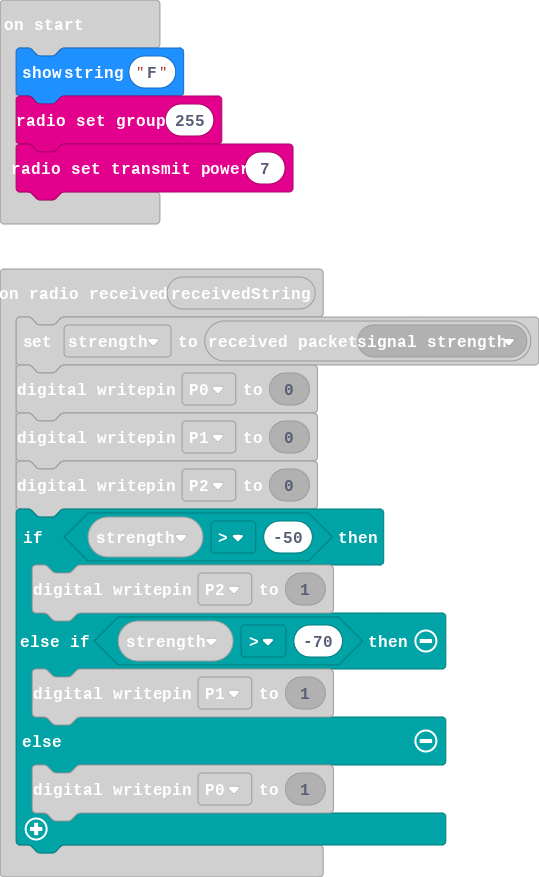
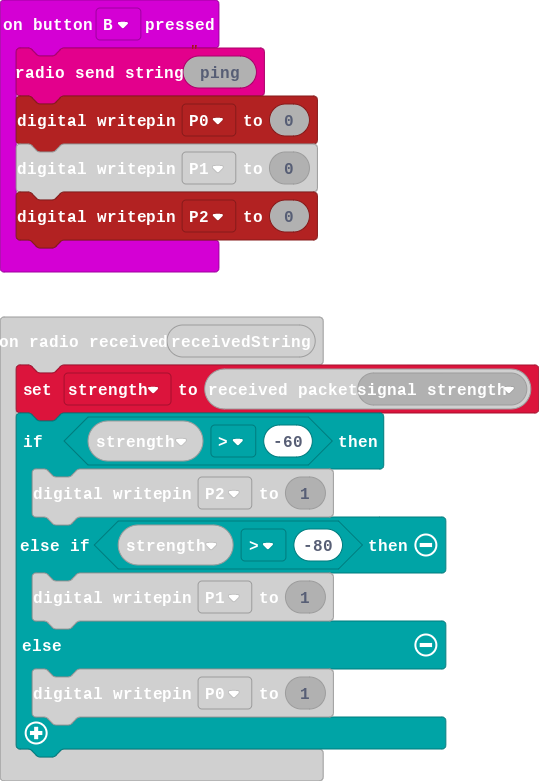
Update main.blocks, main.ts

diff --git a/main.ts b/main.ts
@@ -1,18 +1,18 @@
 radio.onReceivedString(function (receivedString) {
     strength = radio.receivedPacket(RadioPacketProperty.SignalStrength)
-    pins.digitalWritePin(DigitalPin.P0, 0)
-    pins.digitalWritePin(DigitalPin.P1, 0)
-    pins.digitalWritePin(DigitalPin.P2, 0)
-    if (strength > -50) {
+    if (strength > -60) {
         pins.digitalWritePin(DigitalPin.P2, 1)
-    } else if (strength > -70) {
+    } else if (strength > -80) {
         pins.digitalWritePin(DigitalPin.P1, 1)
     } else {
         pins.digitalWritePin(DigitalPin.P0, 1)
     }
 })
-input.onButtonPressed(Button.A, function () {
+input.onButtonPressed(Button.B, function () {
     radio.sendString("ping")
+    pins.digitalWritePin(DigitalPin.P0, 0)
+    pins.digitalWritePin(DigitalPin.P1, 0)
+    pins.digitalWritePin(DigitalPin.P2, 0)
 })
 let strength = 0
 basic.showString("F")
